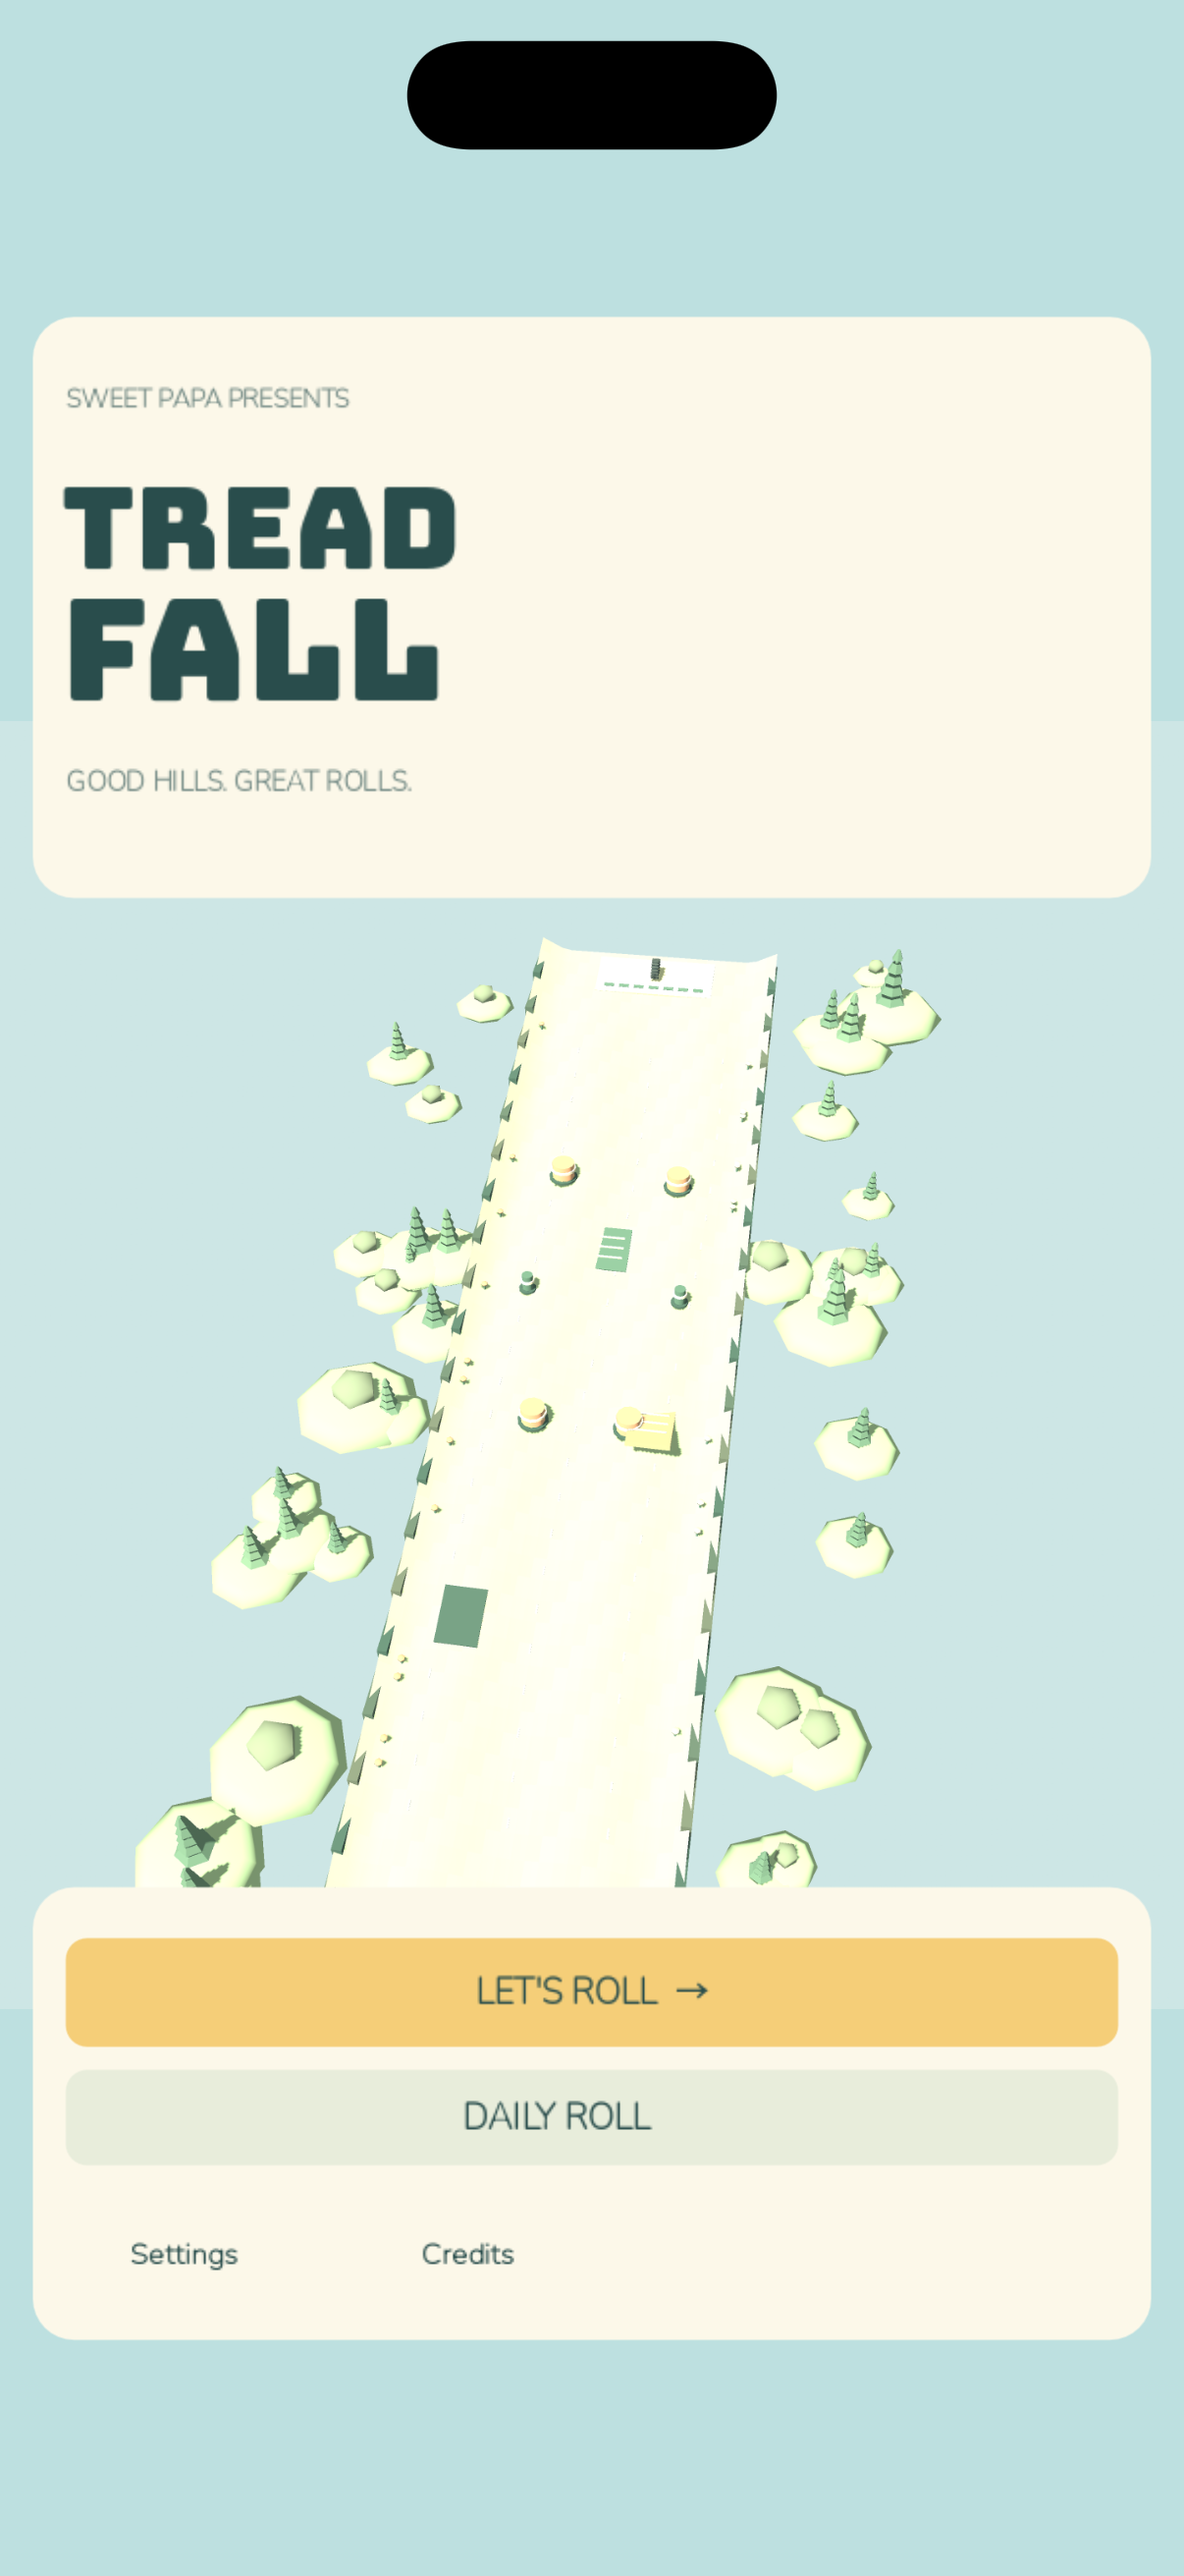
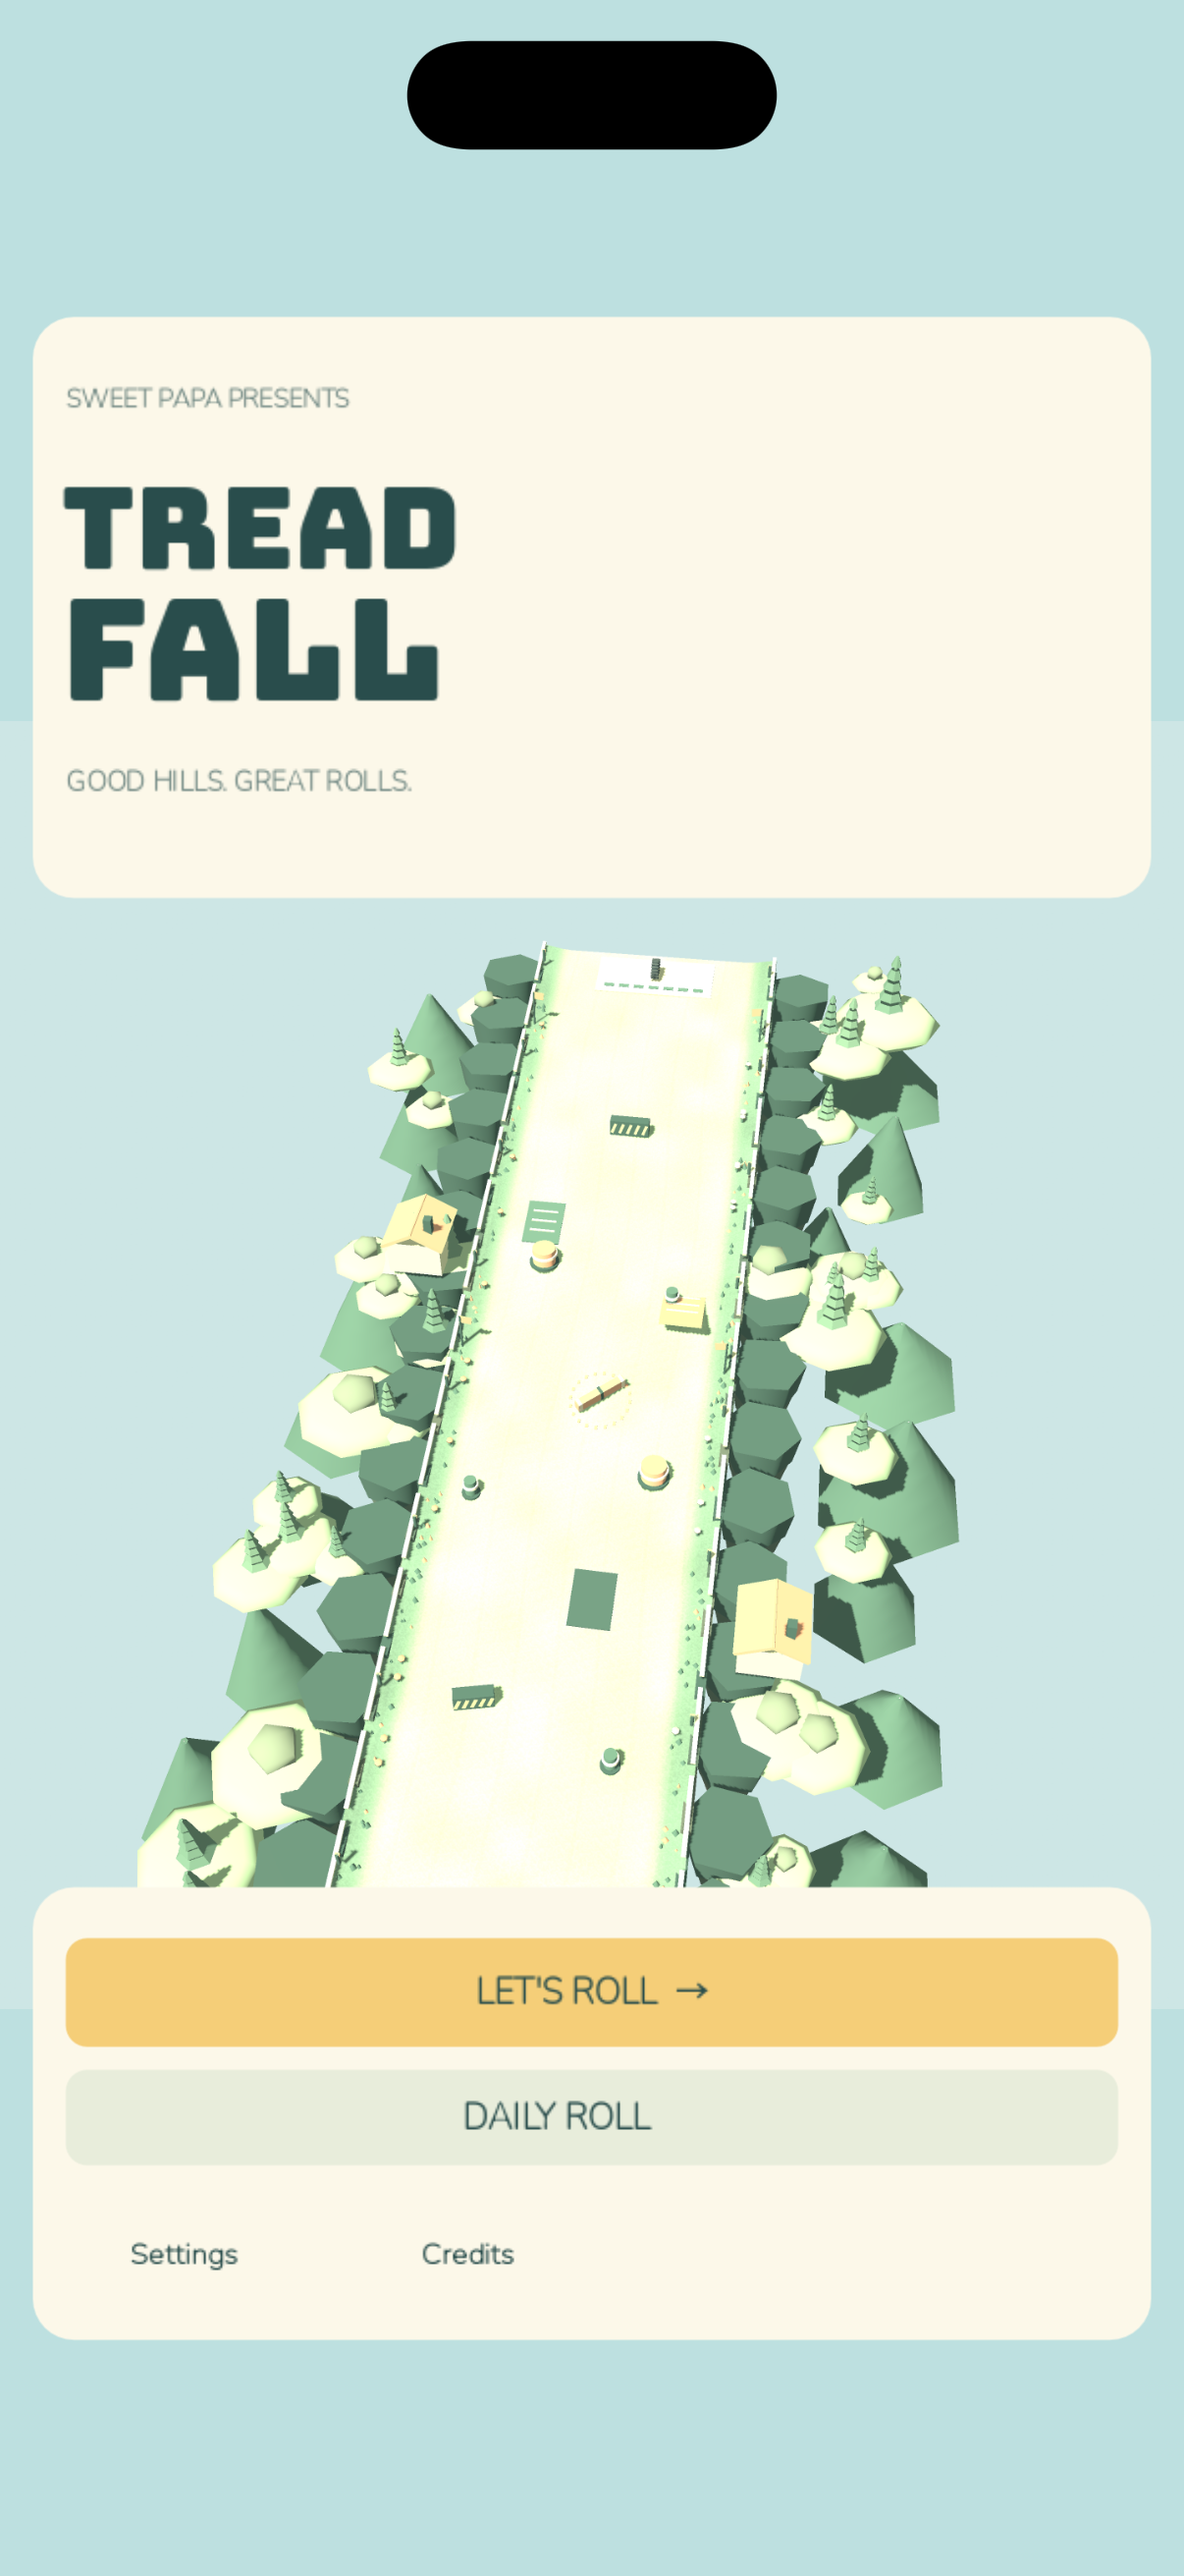
Keep off-edge result tires visible above the course shoulder

diff --git a/MILESTONE.md b/MILESTONE.md
@@ -6,6 +6,7 @@ Verified on macOS 15.5 / Apple M4 Pro with Godot 4.7.2, Jolt 120 Hz and Mobile r
 - Default launch: **0 wins in 160 regular-course/seed combinations**, also checked with standalone isolated rolls. The center barricade, shallow contours and side-route boosts remove the old free winning lane.
 - The final report combines the full sweep with a 735-roll retest of Coral 06 after widening its finish to preserve a solution on seed 7777. Results: `docs/verification/solver-report.json`.
 - Full application: **20 identical planned-route retries**, including a moving sweeper and slow motion; position tolerance 0.0001 with identical events. Creating a fresh tire body on AIM clears pending forces retained by the result freeze. Existing course geometry stays loaded.
+- Off-edge result check: the original out-of-bounds endpoint stays in the score record; the frozen tire is presented on the visible shoulder, clear of decorative cliffs. Native screenshot and ten-second stability regression: PASS.
 - Native and headless experience checks: deliberate route wins, default launch blocks, moving hazards animate and pause, retry restores hazard phase, launch preview never moves the actual tire, and both result camera/body remain stable for ten seconds. PASS.
 - Asset ledger, real mouse/keyboard UI flow, save/style/nudge tests and three fresh processes × 20 physics repeats: PASS.
 - Native full menu playtest: pause/resume, daily challenge and retry PASS; retry **2.42 ms**. Portrait and all four world aim views inspected, plus close chase and settled win/miss views.

diff --git a/DECISIONS.md b/DECISIONS.md
@@ -24,3 +24,5 @@ At termination the body freezes and the camera captures a bounded, immutable foc
 The visual additions are original repository geometry and shaders, extending the existing Kenney CC0 props: layered cliffs, ground grain, planted shoulders, warning stripes, biome landmarks and finish pavilions. No additional downloads or asset licenses are needed.
 
 The result-freeze regression exposed alternating retry positions from pending forces retained by the old tire body. AIM now recreates just the small tire body before the fresh-world reset; course meshes and colliders are retained. Tests cover a route that reaches moving hazards and clears, rather than stopping at the first barrier. Slow motion remains enabled.
+
+The packaged off-edge playtest also caught a frozen tire hidden inside decorative cliff geometry. Off-edge misses now retain their original scored endpoint in the result record and stage the frozen tire on the nearby shoulder for a readable result shot. A regression checks both the original out-of-bounds endpoint and the unobstructed presentation pose.
